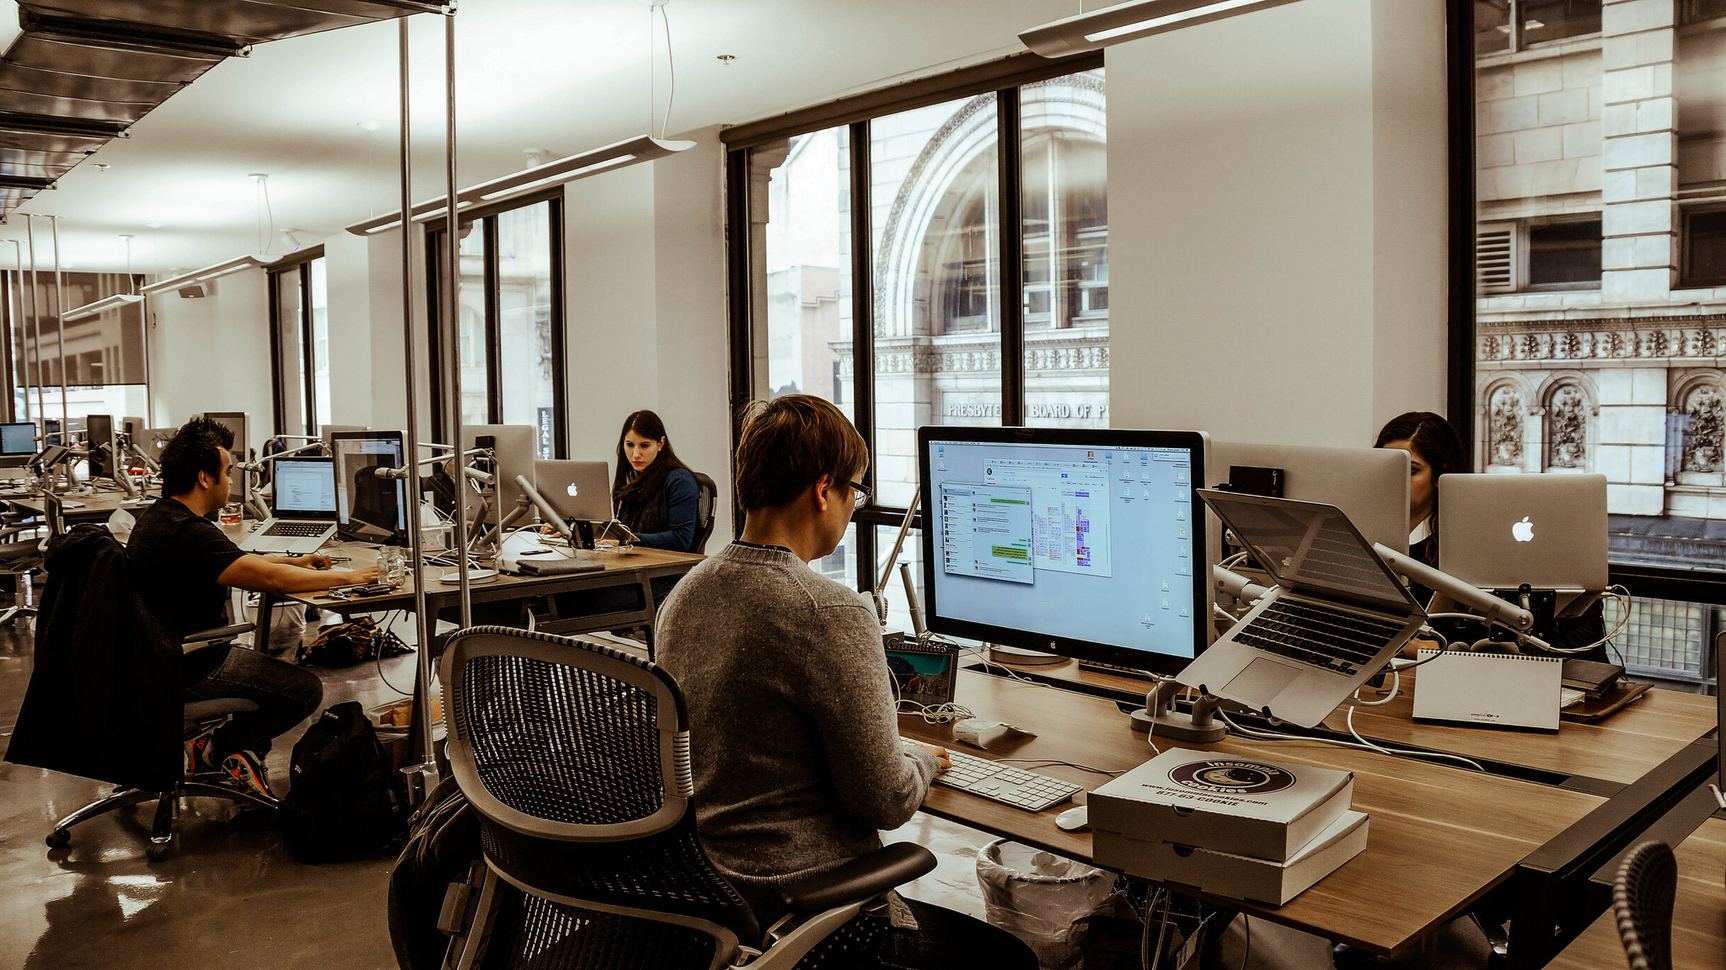
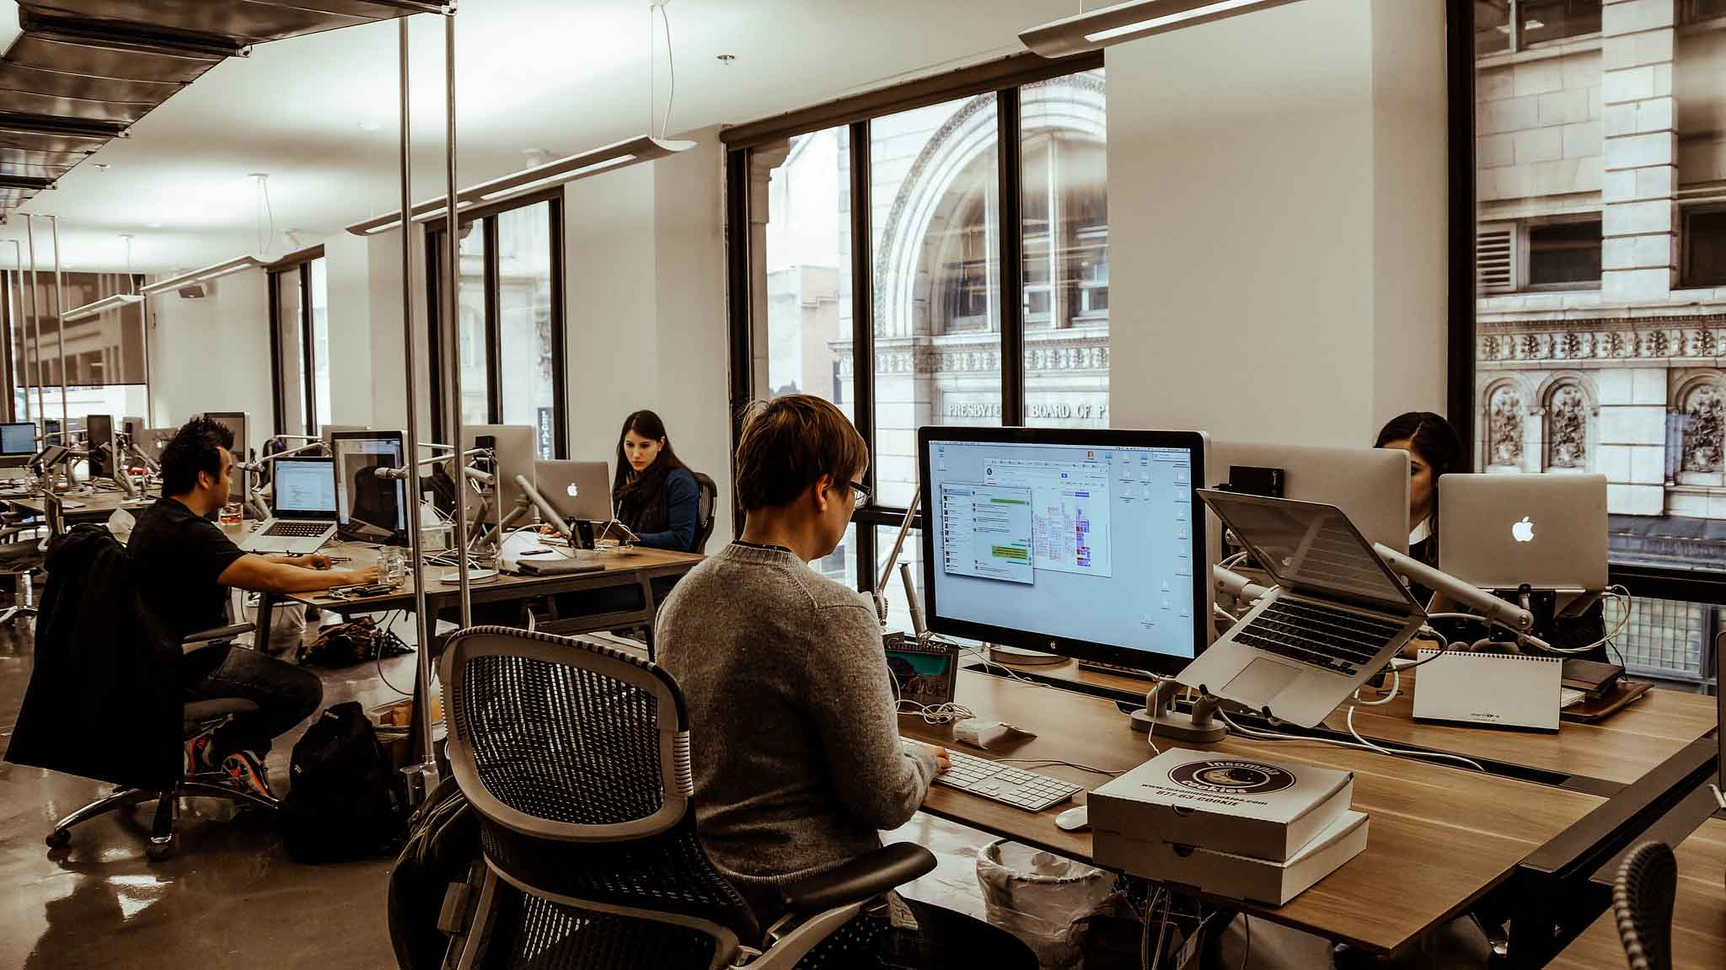
fixed fonts new slider updated img's added skrollr

diff --git a/js/skrollr.min.js b/js/skrollr.min.js
@@ -1,0 +1,2 @@
+/*! skrollr 0.6.26 (2014-06-08) | Alexander Prinzhorn - https://github.com/Prinzhorn/skrollr | Free to use under terms of MIT license */
+(function(e,t,r){"use strict";function n(r){if(o=t.documentElement,a=t.body,K(),it=this,r=r||{},ut=r.constants||{},r.easing)for(var n in r.easing)U[n]=r.easing[n];yt=r.edgeStrategy||"set",ct={beforerender:r.beforerender,render:r.render,keyframe:r.keyframe},ft=r.forceHeight!==!1,ft&&(Vt=r.scale||1),mt=r.mobileDeceleration||x,dt=r.smoothScrolling!==!1,gt=r.smoothScrollingDuration||E,vt={targetTop:it.getScrollTop()},Gt=(r.mobileCheck||function(){return/Android|iPhone|iPad|iPod|BlackBerry/i.test(navigator.userAgent||navigator.vendor||e.opera)})(),Gt?(st=t.getElementById("skrollr-body"),st&&at(),X(),Dt(o,[y,S],[T])):Dt(o,[y,b],[T]),it.refresh(),St(e,"resize orientationchange",function(){var e=o.clientWidth,t=o.clientHeight;(t!==$t||e!==Mt)&&($t=t,Mt=e,_t=!0)});var i=Y();return function l(){Z(),bt=i(l)}(),it}var o,a,i={get:function(){return it},init:function(e){return it||new n(e)},VERSION:"0.6.26"},l=Object.prototype.hasOwnProperty,s=e.Math,c=e.getComputedStyle,f="touchstart",u="touchmove",m="touchcancel",p="touchend",d="skrollable",g=d+"-before",v=d+"-between",h=d+"-after",y="skrollr",T="no-"+y,b=y+"-desktop",S=y+"-mobile",k="linear",w=1e3,x=.004,E=200,A="start",F="end",C="center",D="bottom",H="___skrollable_id",I=/^(?:input|textarea|button|select)$/i,P=/^\s+|\s+$/g,N=/^data(?:-(_\w+))?(?:-?(-?\d*\.?\d+p?))?(?:-?(start|end|top|center|bottom))?(?:-?(top|center|bottom))?$/,O=/\s*(@?[\w\-\[\]]+)\s*:\s*(.+?)\s*(?:;|$)/gi,V=/^(@?[a-z\-]+)\[(\w+)\]$/,z=/-([a-z0-9_])/g,q=function(e,t){return t.toUpperCase()},L=/[\-+]?[\d]*\.?[\d]+/g,M=/\{\?\}/g,$=/rgba?\(\s*-?\d+\s*,\s*-?\d+\s*,\s*-?\d+/g,_=/[a-z\-]+-gradient/g,B="",G="",K=function(){var e=/^(?:O|Moz|webkit|ms)|(?:-(?:o|moz|webkit|ms)-)/;if(c){var t=c(a,null);for(var n in t)if(B=n.match(e)||+n==n&&t[n].match(e))break;if(!B)return B=G="",r;B=B[0],"-"===B.slice(0,1)?(G=B,B={"-webkit-":"webkit","-moz-":"Moz","-ms-":"ms","-o-":"O"}[B]):G="-"+B.toLowerCase()+"-"}},Y=function(){var t=e.requestAnimationFrame||e[B.toLowerCase()+"RequestAnimationFrame"],r=Pt();return(Gt||!t)&&(t=function(t){var n=Pt()-r,o=s.max(0,1e3/60-n);return e.setTimeout(function(){r=Pt(),t()},o)}),t},R=function(){var t=e.cancelAnimationFrame||e[B.toLowerCase()+"CancelAnimationFrame"];return(Gt||!t)&&(t=function(t){return e.clearTimeout(t)}),t},U={begin:function(){return 0},end:function(){return 1},linear:function(e){return e},quadratic:function(e){return e*e},cubic:function(e){return e*e*e},swing:function(e){return-s.cos(e*s.PI)/2+.5},sqrt:function(e){return s.sqrt(e)},outCubic:function(e){return s.pow(e-1,3)+1},bounce:function(e){var t;if(.5083>=e)t=3;else if(.8489>=e)t=9;else if(.96208>=e)t=27;else{if(!(.99981>=e))return 1;t=91}return 1-s.abs(3*s.cos(1.028*e*t)/t)}};n.prototype.refresh=function(e){var n,o,a=!1;for(e===r?(a=!0,lt=[],Bt=0,e=t.getElementsByTagName("*")):e.length===r&&(e=[e]),n=0,o=e.length;o>n;n++){var i=e[n],l=i,s=[],c=dt,f=yt,u=!1;if(a&&H in i&&delete i[H],i.attributes){for(var m=0,p=i.attributes.length;p>m;m++){var g=i.attributes[m];if("data-anchor-target"!==g.name)if("data-smooth-scrolling"!==g.name)if("data-edge-strategy"!==g.name)if("data-emit-events"!==g.name){var v=g.name.match(N);if(null!==v){var h={props:g.value,element:i,eventType:g.name.replace(z,q)};s.push(h);var y=v[1];y&&(h.constant=y.substr(1));var T=v[2];/p$/.test(T)?(h.isPercentage=!0,h.offset=(0|T.slice(0,-1))/100):h.offset=0|T;var b=v[3],S=v[4]||b;b&&b!==A&&b!==F?(h.mode="relative",h.anchors=[b,S]):(h.mode="absolute",b===F?h.isEnd=!0:h.isPercentage||(h.offset=h.offset*Vt))}}else u=!0;else f=g.value;else c="off"!==g.value;else if(l=t.querySelector(g.value),null===l)throw'Unable to find anchor target "'+g.value+'"'}if(s.length){var k,w,x;!a&&H in i?(x=i[H],k=lt[x].styleAttr,w=lt[x].classAttr):(x=i[H]=Bt++,k=i.style.cssText,w=Ct(i)),lt[x]={element:i,styleAttr:k,classAttr:w,anchorTarget:l,keyFrames:s,smoothScrolling:c,edgeStrategy:f,emitEvents:u,lastFrameIndex:-1},Dt(i,[d],[])}}}for(Et(),n=0,o=e.length;o>n;n++){var E=lt[e[n][H]];E!==r&&(J(E),et(E))}return it},n.prototype.relativeToAbsolute=function(e,t,r){var n=o.clientHeight,a=e.getBoundingClientRect(),i=a.top,l=a.bottom-a.top;return t===D?i-=n:t===C&&(i-=n/2),r===D?i+=l:r===C&&(i+=l/2),i+=it.getScrollTop(),0|i+.5},n.prototype.animateTo=function(e,t){t=t||{};var n=Pt(),o=it.getScrollTop();return pt={startTop:o,topDiff:e-o,targetTop:e,duration:t.duration||w,startTime:n,endTime:n+(t.duration||w),easing:U[t.easing||k],done:t.done},pt.topDiff||(pt.done&&pt.done.call(it,!1),pt=r),it},n.prototype.stopAnimateTo=function(){pt&&pt.done&&pt.done.call(it,!0),pt=r},n.prototype.isAnimatingTo=function(){return!!pt},n.prototype.isMobile=function(){return Gt},n.prototype.setScrollTop=function(t,r){return ht=r===!0,Gt?Kt=s.min(s.max(t,0),Ot):e.scrollTo(0,t),it},n.prototype.getScrollTop=function(){return Gt?Kt:e.pageYOffset||o.scrollTop||a.scrollTop||0},n.prototype.getMaxScrollTop=function(){return Ot},n.prototype.on=function(e,t){return ct[e]=t,it},n.prototype.off=function(e){return delete ct[e],it},n.prototype.destroy=function(){var e=R();e(bt),wt(),Dt(o,[T],[y,b,S]);for(var t=0,n=lt.length;n>t;t++)ot(lt[t].element);o.style.overflow=a.style.overflow="",o.style.height=a.style.height="",st&&i.setStyle(st,"transform","none"),it=r,st=r,ct=r,ft=r,Ot=0,Vt=1,ut=r,mt=r,zt="down",qt=-1,Mt=0,$t=0,_t=!1,pt=r,dt=r,gt=r,vt=r,ht=r,Bt=0,yt=r,Gt=!1,Kt=0,Tt=r};var X=function(){var n,i,l,c,d,g,v,h,y,T,b,S;St(o,[f,u,m,p].join(" "),function(e){var o=e.changedTouches[0];for(c=e.target;3===c.nodeType;)c=c.parentNode;switch(d=o.clientY,g=o.clientX,T=e.timeStamp,I.test(c.tagName)||e.preventDefault(),e.type){case f:n&&n.blur(),it.stopAnimateTo(),n=c,i=v=d,l=g,y=T;break;case u:I.test(c.tagName)&&t.activeElement!==c&&e.preventDefault(),h=d-v,S=T-b,it.setScrollTop(Kt-h,!0),v=d,b=T;break;default:case m:case p:var a=i-d,k=l-g,w=k*k+a*a;if(49>w){if(!I.test(n.tagName)){n.focus();var x=t.createEvent("MouseEvents");x.initMouseEvent("click",!0,!0,e.view,1,o.screenX,o.screenY,o.clientX,o.clientY,e.ctrlKey,e.altKey,e.shiftKey,e.metaKey,0,null),n.dispatchEvent(x)}return}n=r;var E=h/S;E=s.max(s.min(E,3),-3);var A=s.abs(E/mt),F=E*A+.5*mt*A*A,C=it.getScrollTop()-F,D=0;C>Ot?(D=(Ot-C)/F,C=Ot):0>C&&(D=-C/F,C=0),A*=1-D,it.animateTo(0|C+.5,{easing:"outCubic",duration:A})}}),e.scrollTo(0,0),o.style.overflow=a.style.overflow="hidden"},j=function(){var e,t,r,n,a,i,l,c,f,u,m,p=o.clientHeight,d=At();for(c=0,f=lt.length;f>c;c++)for(e=lt[c],t=e.element,r=e.anchorTarget,n=e.keyFrames,a=0,i=n.length;i>a;a++)l=n[a],u=l.offset,m=d[l.constant]||0,l.frame=u,l.isPercentage&&(u*=p,l.frame=u),"relative"===l.mode&&(ot(t),l.frame=it.relativeToAbsolute(r,l.anchors[0],l.anchors[1])-u,ot(t,!0)),l.frame+=m,ft&&!l.isEnd&&l.frame>Ot&&(Ot=l.frame);for(Ot=s.max(Ot,Ft()),c=0,f=lt.length;f>c;c++){for(e=lt[c],n=e.keyFrames,a=0,i=n.length;i>a;a++)l=n[a],m=d[l.constant]||0,l.isEnd&&(l.frame=Ot-l.offset+m);e.keyFrames.sort(Nt)}},W=function(e,t){for(var r=0,n=lt.length;n>r;r++){var o,a,s=lt[r],c=s.element,f=s.smoothScrolling?e:t,u=s.keyFrames,m=u.length,p=u[0],y=u[u.length-1],T=p.frame>f,b=f>y.frame,S=T?p:y,k=s.emitEvents,w=s.lastFrameIndex;if(T||b){if(T&&-1===s.edge||b&&1===s.edge)continue;switch(T?(Dt(c,[g],[h,v]),k&&w>-1&&(xt(c,p.eventType,zt),s.lastFrameIndex=-1)):(Dt(c,[h],[g,v]),k&&m>w&&(xt(c,y.eventType,zt),s.lastFrameIndex=m)),s.edge=T?-1:1,s.edgeStrategy){case"reset":ot(c);continue;case"ease":f=S.frame;break;default:case"set":var x=S.props;for(o in x)l.call(x,o)&&(a=nt(x[o].value),0===o.indexOf("@")?c.setAttribute(o.substr(1),a):i.setStyle(c,o,a));continue}}else 0!==s.edge&&(Dt(c,[d,v],[g,h]),s.edge=0);for(var E=0;m-1>E;E++)if(f>=u[E].frame&&u[E+1].frame>=f){var A=u[E],F=u[E+1];for(o in A.props)if(l.call(A.props,o)){var C=(f-A.frame)/(F.frame-A.frame);C=A.props[o].easing(C),a=rt(A.props[o].value,F.props[o].value,C),a=nt(a),0===o.indexOf("@")?c.setAttribute(o.substr(1),a):i.setStyle(c,o,a)}k&&w!==E&&("down"===zt?xt(c,A.eventType,zt):xt(c,F.eventType,zt),s.lastFrameIndex=E);break}}},Z=function(){_t&&(_t=!1,Et());var e,t,n=it.getScrollTop(),o=Pt();if(pt)o>=pt.endTime?(n=pt.targetTop,e=pt.done,pt=r):(t=pt.easing((o-pt.startTime)/pt.duration),n=0|pt.startTop+t*pt.topDiff),it.setScrollTop(n,!0);else if(!ht){var a=vt.targetTop-n;a&&(vt={startTop:qt,topDiff:n-qt,targetTop:n,startTime:Lt,endTime:Lt+gt}),vt.endTime>=o&&(t=U.sqrt((o-vt.startTime)/gt),n=0|vt.startTop+t*vt.topDiff)}if(Gt&&st&&i.setStyle(st,"transform","translate(0, "+-Kt+"px) "+Tt),ht||qt!==n){zt=n>qt?"down":qt>n?"up":zt,ht=!1;var l={curTop:n,lastTop:qt,maxTop:Ot,direction:zt},s=ct.beforerender&&ct.beforerender.call(it,l);s!==!1&&(W(n,it.getScrollTop()),qt=n,ct.render&&ct.render.call(it,l)),e&&e.call(it,!1)}Lt=o},J=function(e){for(var t=0,r=e.keyFrames.length;r>t;t++){for(var n,o,a,i,l=e.keyFrames[t],s={};null!==(i=O.exec(l.props));)a=i[1],o=i[2],n=a.match(V),null!==n?(a=n[1],n=n[2]):n=k,o=o.indexOf("!")?Q(o):[o.slice(1)],s[a]={value:o,easing:U[n]};l.props=s}},Q=function(e){var t=[];return $.lastIndex=0,e=e.replace($,function(e){return e.replace(L,function(e){return 100*(e/255)+"%"})}),G&&(_.lastIndex=0,e=e.replace(_,function(e){return G+e})),e=e.replace(L,function(e){return t.push(+e),"{?}"}),t.unshift(e),t},et=function(e){var t,r,n={};for(t=0,r=e.keyFrames.length;r>t;t++)tt(e.keyFrames[t],n);for(n={},t=e.keyFrames.length-1;t>=0;t--)tt(e.keyFrames[t],n)},tt=function(e,t){var r;for(r in t)l.call(e.props,r)||(e.props[r]=t[r]);for(r in e.props)t[r]=e.props[r]},rt=function(e,t,r){var n,o=e.length;if(o!==t.length)throw"Can't interpolate between \""+e[0]+'" and "'+t[0]+'"';var a=[e[0]];for(n=1;o>n;n++)a[n]=e[n]+(t[n]-e[n])*r;return a},nt=function(e){var t=1;return M.lastIndex=0,e[0].replace(M,function(){return e[t++]})},ot=function(e,t){e=[].concat(e);for(var r,n,o=0,a=e.length;a>o;o++)n=e[o],r=lt[n[H]],r&&(t?(n.style.cssText=r.dirtyStyleAttr,Dt(n,r.dirtyClassAttr)):(r.dirtyStyleAttr=n.style.cssText,r.dirtyClassAttr=Ct(n),n.style.cssText=r.styleAttr,Dt(n,r.classAttr)))},at=function(){Tt="translateZ(0)",i.setStyle(st,"transform",Tt);var e=c(st),t=e.getPropertyValue("transform"),r=e.getPropertyValue(G+"transform"),n=t&&"none"!==t||r&&"none"!==r;n||(Tt="")};i.setStyle=function(e,t,r){var n=e.style;if(t=t.replace(z,q).replace("-",""),"zIndex"===t)n[t]=isNaN(r)?r:""+(0|r);else if("float"===t)n.styleFloat=n.cssFloat=r;else try{B&&(n[B+t.slice(0,1).toUpperCase()+t.slice(1)]=r),n[t]=r}catch(o){}};var it,lt,st,ct,ft,ut,mt,pt,dt,gt,vt,ht,yt,Tt,bt,St=i.addEvent=function(t,r,n){var o=function(t){return t=t||e.event,t.target||(t.target=t.srcElement),t.preventDefault||(t.preventDefault=function(){t.returnValue=!1,t.defaultPrevented=!0}),n.call(this,t)};r=r.split(" ");for(var a,i=0,l=r.length;l>i;i++)a=r[i],t.addEventListener?t.addEventListener(a,n,!1):t.attachEvent("on"+a,o),Yt.push({element:t,name:a,listener:n})},kt=i.removeEvent=function(e,t,r){t=t.split(" ");for(var n=0,o=t.length;o>n;n++)e.removeEventListener?e.removeEventListener(t[n],r,!1):e.detachEvent("on"+t[n],r)},wt=function(){for(var e,t=0,r=Yt.length;r>t;t++)e=Yt[t],kt(e.element,e.name,e.listener);Yt=[]},xt=function(e,t,r){ct.keyframe&&ct.keyframe.call(it,e,t,r)},Et=function(){var e=it.getScrollTop();Ot=0,ft&&!Gt&&(a.style.height=""),j(),ft&&!Gt&&(a.style.height=Ot+o.clientHeight+"px"),Gt?it.setScrollTop(s.min(it.getScrollTop(),Ot)):it.setScrollTop(e,!0),ht=!0},At=function(){var e,t,r=o.clientHeight,n={};for(e in ut)t=ut[e],"function"==typeof t?t=t.call(it):/p$/.test(t)&&(t=t.slice(0,-1)/100*r),n[e]=t;return n},Ft=function(){var e=st&&st.offsetHeight||0,t=s.max(e,a.scrollHeight,a.offsetHeight,o.scrollHeight,o.offsetHeight,o.clientHeight);return t-o.clientHeight},Ct=function(t){var r="className";return e.SVGElement&&t instanceof e.SVGElement&&(t=t[r],r="baseVal"),t[r]},Dt=function(t,n,o){var a="className";if(e.SVGElement&&t instanceof e.SVGElement&&(t=t[a],a="baseVal"),o===r)return t[a]=n,r;for(var i=t[a],l=0,s=o.length;s>l;l++)i=It(i).replace(It(o[l])," ");i=Ht(i);for(var c=0,f=n.length;f>c;c++)-1===It(i).indexOf(It(n[c]))&&(i+=" "+n[c]);t[a]=Ht(i)},Ht=function(e){return e.replace(P,"")},It=function(e){return" "+e+" "},Pt=Date.now||function(){return+new Date},Nt=function(e,t){return e.frame-t.frame},Ot=0,Vt=1,zt="down",qt=-1,Lt=Pt(),Mt=0,$t=0,_t=!1,Bt=0,Gt=!1,Kt=0,Yt=[];"function"==typeof define&&define.amd?define("skrollr",function(){return i}):"undefined"!=typeof module&&module.exports?module.exports=i:e.skrollr=i})(window,document);

diff --git a/index.html b/index.html
@@ -3,7 +3,7 @@
   <head>
     <meta charset="utf-8">
     <meta http-equiv="X-UA-Compatible" content="IE=edge">
-    <meta name="viewport" content="width=device-width, initial-scale=1.0">
+       <meta name="viewport" content="width=device-width, initial-scale=1.0, user-scalable=no">
     <meta name="description" content="">
     <meta name="author" content="">
     <link rel="shortcut icon" href="img/favicon.png">
@@ -17,6 +17,8 @@
 
     <!-- Fonts from Google Fonts -->
 	<link href='http://fonts.googleapis.com/css?family=Lato:300,400,900' rel='stylesheet' type='text/css'>
+      <link href='http://fonts.googleapis.com/css?family=Open+Sans' rel='stylesheet' type='text/css'>
+
     
     <!-- HTML5 shim and Respond.js IE8 support of HTML5 elements and media queries -->
     <!--[if lt IE 9]>
@@ -71,11 +73,25 @@
 
    </div><!-- /container -->
 </div><!-- /headerwrap -->
-	
-
-	
+		
 	<section class="rest">
-		<div class="row mt md centered">
+          <div class="lock-circle"
+              data-0="opacity: 0;"
+              data-150="opacity: 0;"
+              data-200="opacity: 1; width: 100px; height: 100px;" 
+              data-400="width: 170px; height: 170px;" 
+          >
+          <div class="lockk"
+              data-0="opacity: 0;"
+              data-150="opacity: 0.01; width: 40px; height: 65px;"
+              data-400="opacity: 1; width: 80px; height: 130px" 
+
+
+                  ></div>
+             <!--  <img src="img/lock.png" class="lock" alt="">  -->
+          </div>
+
+		<div class="row md centered">
                 <div class="col-md-1"></div>
 			<div class="col-md-10 ">
 				<h1 class="h1-font">Rest assured, we've got you insured.</h1>
@@ -86,7 +102,7 @@
       </section>
 
 
-<div class="container">
+<div class="container mt">
     <div class="row  centered">
 	   <div class="col-md-6">
 	  	 <img class="four-icon" src="img/virus-block.png" alt="">
@@ -141,11 +157,15 @@
           <div class="col-md-6 ">
           </div>
               <div class="row bt centered">
-                 <div class="col-md-12 red ">
+                 <div class="col-md-12 red
+              data-200="opacity: 0;"
+              data-1300="opacity: 0;" 
+              data-1800="opacity: .71;"
+                 ">
                   <!-- Friends fonts -->
                     <h1 class="mg-bt">Friends help friends!</h1>
                         <hr>
-                    <h8>Nominate friends that can help find, lock and secure your phone, using their phone.</h8>
+                    <h8>Choose close friends that can help you find, lock, and secure your phone, using their phone.</h8>
                  </div>
             </div><!-- /row -->
           </div>
@@ -153,44 +173,59 @@
 </div><!-- /row -->
 
 		<!--The CAROUSEL goes here -->
-    <h1>Play Store Reviews</h1>
-      <div class="row feedback centered">
-         <div class="col-lg-6 col-lg-offset-3">
-            <div id="carousel-example-generic" class="carousel slide" data-ride="carousel">
-              <!-- Indicators -->
-              <ol class="carousel-indicators">
-                <li data-target="#carousel-example-generic" data-slide-to="0" class="active"></li>
-                <li data-target="#carousel-example-generic" data-slide-to="1"></li>
-                <li data-target="#carousel-example-generic" data-slide-to="2"></li>
-                <li data-target="#carousel-example-generic" data-slide-to="3"></li>
-              </ol>
-            
-              <!-- Wrapper for slides -->
-           <div class="carousel-inner">
-               <div class="item active">
-                 <img class="icon-photo" src="https://lh6.googleusercontent.com/-fzIvYEGOPuI/AAAAAAAAAAI/AAAAAAAAAzE/Dt0Ke3WN01U/w48-c-h48/photo.jpg" alt="">
-                    <p class="review">"Excellent." <br>-Keshavlal Soni</p>
-                </div>
-                <div class="item">
-                    <img class="icon-photo" src="https://lh4.googleusercontent.com/-NX8IdglvI8o/AAAAAAAAAAI/AAAAAAAAALk/HbK5_PXNEns/w48-c-h48/photo.jpg" alt="">
+<h1>Play Store Reviews</h1>
+<div id="carousel">           
+  <div class="container">
+    <div class="row">
+      <div class="col-md-8 col-md-offset-2">
+                <div class="quote"><i class="fa fa-quote-left fa-4x"></i></div>
+        <div class="carousel slide" id="fade-quote-carousel" data-ride="carousel" data-interval="3000">
+          <!-- Carousel indicators -->
+                  <ol class="carousel-indicators">
+            <li data-target="#fade-quote-carousel" data-slide-to="0" class="active"></li>
+            <li data-target="#fade-quote-carousel" data-slide-to="1"></li>
+            <li data-target="#fade-quote-carousel" data-slide-to="2"></li>
+            <li data-target="#fade-quote-carousel" data-slide-to="3"></li>
+          </ol>
+          <!-- Carousel items -->
+          <div class="carousel-inner">
+             <div class="active item">
+                  <img class="icon-photo" src="https://lh6.googleusercontent.com/-fzIvYEGOPuI/AAAAAAAAAAI/AAAAAAAAAzE/Dt0Ke3WN01U/w48-c-h48/photo.jpg" alt="">
+              <blockquote>
+                  <p class="review">"Excellent." <br>-Keshavlal Soni</p>
+              </blockquote>
+            </div>
+            <div class="item">
+               <img class="icon-photo" src="https://lh5.googleusercontent.com/-uEWeXKs5_rA/AAAAAAAAAAI/AAAAAAAABaY/Rhs_DiwTBQ8/w48-c-h48/photo.jpg" alt="">
+              <blockquote>
+                 <p class="review">"ใช้ดีมาก ชอบตรงที่หาเครื่องหายโดยให้เพื่อนช่วยได้ มีแล้วรู้สึกอุ่นใจมากขึ้นเยอะ" <br>-Than Rassadanukul</p>
+              </blockquote>
+            </div>
+            <div class="item">
+              <blockquote>
+               <img class="icon-photo" src="https://lh4.googleusercontent.com/-NX8IdglvI8o/AAAAAAAAAAI/AAAAAAAAALk/HbK5_PXNEns/w48-c-h48/photo.jpg" alt="">
                     <p class="review">"Nice Love it 5star." <br>-Artis Robinson</p>      
-                </div>
-                <div class="item">
-                     <img class="icon-photo" src="https://lh4.googleusercontent.com/-F0NggBZoPWU/AAAAAAAAAAI/AAAAAAAAAxI/B58UNg_5AhM/w48-c-h48/photo.jpg" alt="">
-                    <p class="review">"Best App One of the best app available on Google Play" <br>-Sathvik Rao</p>
-                </div>
-                 <div class="item">
-                     <img class="icon-photo" src="https://lh5.googleusercontent.com/-uEWeXKs5_rA/AAAAAAAAAAI/AAAAAAAABaY/Rhs_DiwTBQ8/w48-c-h48/photo.jpg" alt="">
-                    <p class="review">"ใช้ดีมาก ชอบตรงที่หาเครื่องหายโดยให้เพื่อนช่วยได้ มีแล้วรู้สึกอุ่นใจมากขึ้นเยอะ" <br>-Than Rassadanukul</p>
-                </div>
-              </div>
-
-              </div>
-            </div>         
-         </div><!-- /col-lg-8 -->
-      </div><!-- /row -->
+              </blockquote>
+            </div>
+            <div class="item">
+              <blockquote>
+              <img class="icon-photo" src="https://lh4.googleusercontent.com/-F0NggBZoPWU/AAAAAAAAAAI/AAAAAAAAAxI/B58UNg_5AhM/w48-c-h48/photo.jpg" alt="">
+              <p class="review">"Best App One of the best app available on Google Play" <br>-Sathvik Rao</p>
+              </blockquote>
+            </div>
 
 
+
+
+ 
+                    
+
+          </div>
+        </div>
+      </div>              
+    </div>
+  </div>
+</div>
 
 
 
@@ -273,5 +308,13 @@
     <!-- Placed at the end of the document so the pages load faster -->
     <script src="https://code.jquery.com/jquery-1.10.2.min.js"></script>
     <script src="js/bootstrap.min.js"></script>
+
+
+    <!-- Skrollr  -->
+     <script type="text/javascript" src="js/skrollr.min.js"></script>
+        <script type="text/javascript">
+            var s = skrollr.init();
+        </script>
+
   </body>
 </html>

diff --git a/css/main.css b/css/main.css
@@ -9,7 +9,7 @@
 
 body {
   background-color: #fff;
-    font-family: "Open Sans";
+    font-family: 'Open Sans', sans-serif;
     font-weight: 300;
     font-size: 16px;
     color: #555;
@@ -82,6 +82,7 @@ footer {
     opacity: 0.69;
     border-radius: 6px;
     margin-top: 102px;
+    padding-bottom: 30px;
 }
 
 .right {
@@ -136,6 +137,8 @@ footer {
     margin-bottom: 50px;
     margin-top: 50px;
 }
+
+
 .about-seperator {
     height: 1px;
     width: 30%;
@@ -346,31 +349,69 @@ h8 {
 }
 
 
-.carousel-indicators {
-    color: yellow;
+
+
+
+/*-------------------------------*/
+/*      Code snippet by          */
+/*      @maridlcrmn              */
+/*-------------------------------*/
+
+
+section {
+    padding-top: 100px;
+    padding-bottom: 100px;
 }
 
-.carousel-indicators>#carousel-example-generic {
-    color: blue;
+.quote {
+    color: rgba(0,0,0,.1);
+    text-align: center;
+    margin-bottom: 30px;
 }
 
 
 
-#carousel-example-generic >.active {
-    background: blue;
+/*-------------------------------
+       Carousel Fade Transition   
+        2nd Carousel
+-------------------------------*/
 
+#fade-quote-carousel.carousel .carousel-inner .item {
+  opacity: 0;
+  -webkit-transition-property: opacity;
+      -ms-transition-property: opacity;
+          transition-property: opacity;
+}
+#fade-quote-carousel.carousel .carousel-inner .active {
+  opacity: 1;
+  -webkit-transition-property: opacity;
+      -ms-transition-property: opacity;
+          transition-property: opacity;
+}
+#fade-quote-carousel.carousel .carousel-indicators {
+  bottom: 10px;
+}
+#fade-quote-carousel.carousel .carousel-indicators > li {
+  background-color: #1A76BA;
+  border: none;
+}
+#fade-quote-carousel blockquote {
+    text-align: center;
+    border: none;
+}
+#fade-quote-carousel .profile-circle {
+    width: 100px;
+    height: 100px;
+    margin: 0 auto;
+    border-radius: 100px;
 }
 
-.carousel-inner {
-    margin-top: 30px;
-
-    }
-
-.carousel-indicators li {
-    background: #000;
-    color: pink;
-
+.carousel {
+  margin-bottom: 40px;
 }
+
+
+
 
 .extra-info {
     color: white;
@@ -572,6 +613,7 @@ a:after {
     margin: 0 auto;
     z-index: 300;
     background: white;
+    padding-top: 15px;
 }
 
 
@@ -638,11 +680,39 @@ font-variant: small-caps;
 
 .rest {
     width: 100%;
-    height: 350px;
-    padding-top: 40px;
+    height: 500px;
+    margin-top: 30px;
     z-index: 200;
     border-bottom: 7px solid #f3f3f3;
 } 
+
+.lock  {
+    width: 50px;
+    height: 50px;
+    background: red;
+    margin: 0 auto;
+}
+
+.lockk  {
+    width: 80px;
+    height: 130px;
+    margin: 0 auto;
+    background: url('../img/lock.png') ;
+    background-size: 100% auto;
+    background-repeat: no-repeat;
+    opacity: 0;
+    position: relative;
+}
+
+.lock-circle {
+    background: #24A5DC;
+    width: 200px;
+    height: 200px;
+    border-radius: 60%;
+    z-index:-10;
+    margin: 0 auto;
+    padding-top: 20px;
+}
 
 .phone-info {
     background: red;
@@ -730,7 +800,7 @@ font-variant: small-caps;
 
 /* About Wrap */
 #aboutwrap {
-    background: url('../img/office.jpg') no-repeat center top; 
+    background: url('../img/office.png') no-repeat center top; 
     background-color: black;
     margin-top: 3px;
     padding-top: 90px;
